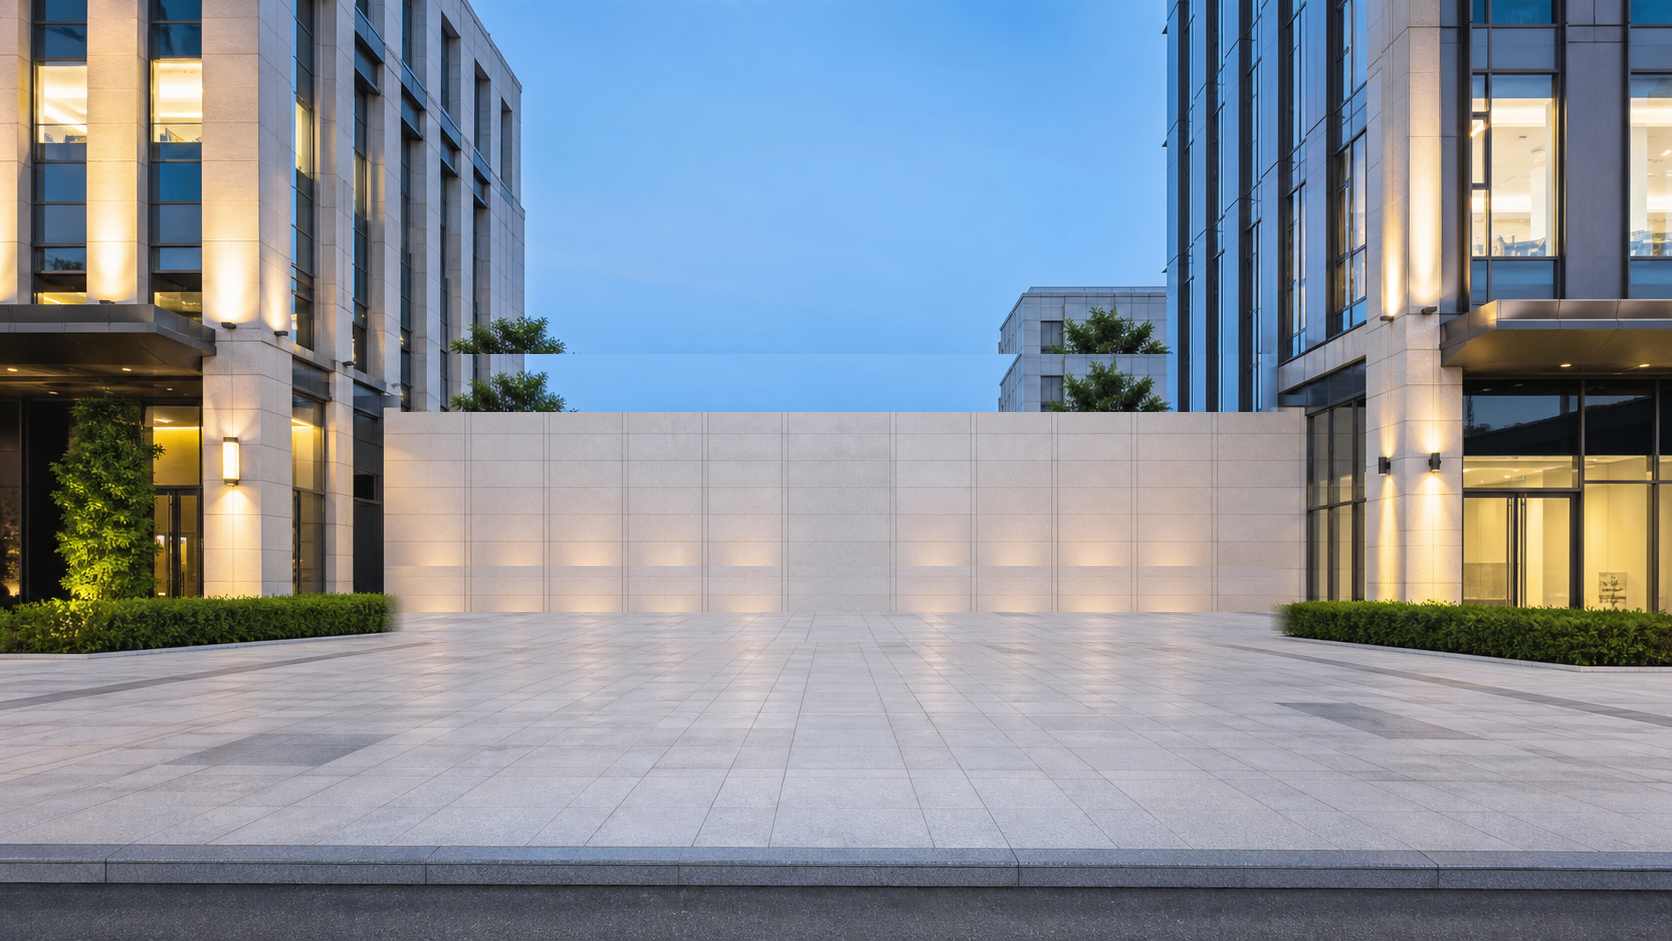
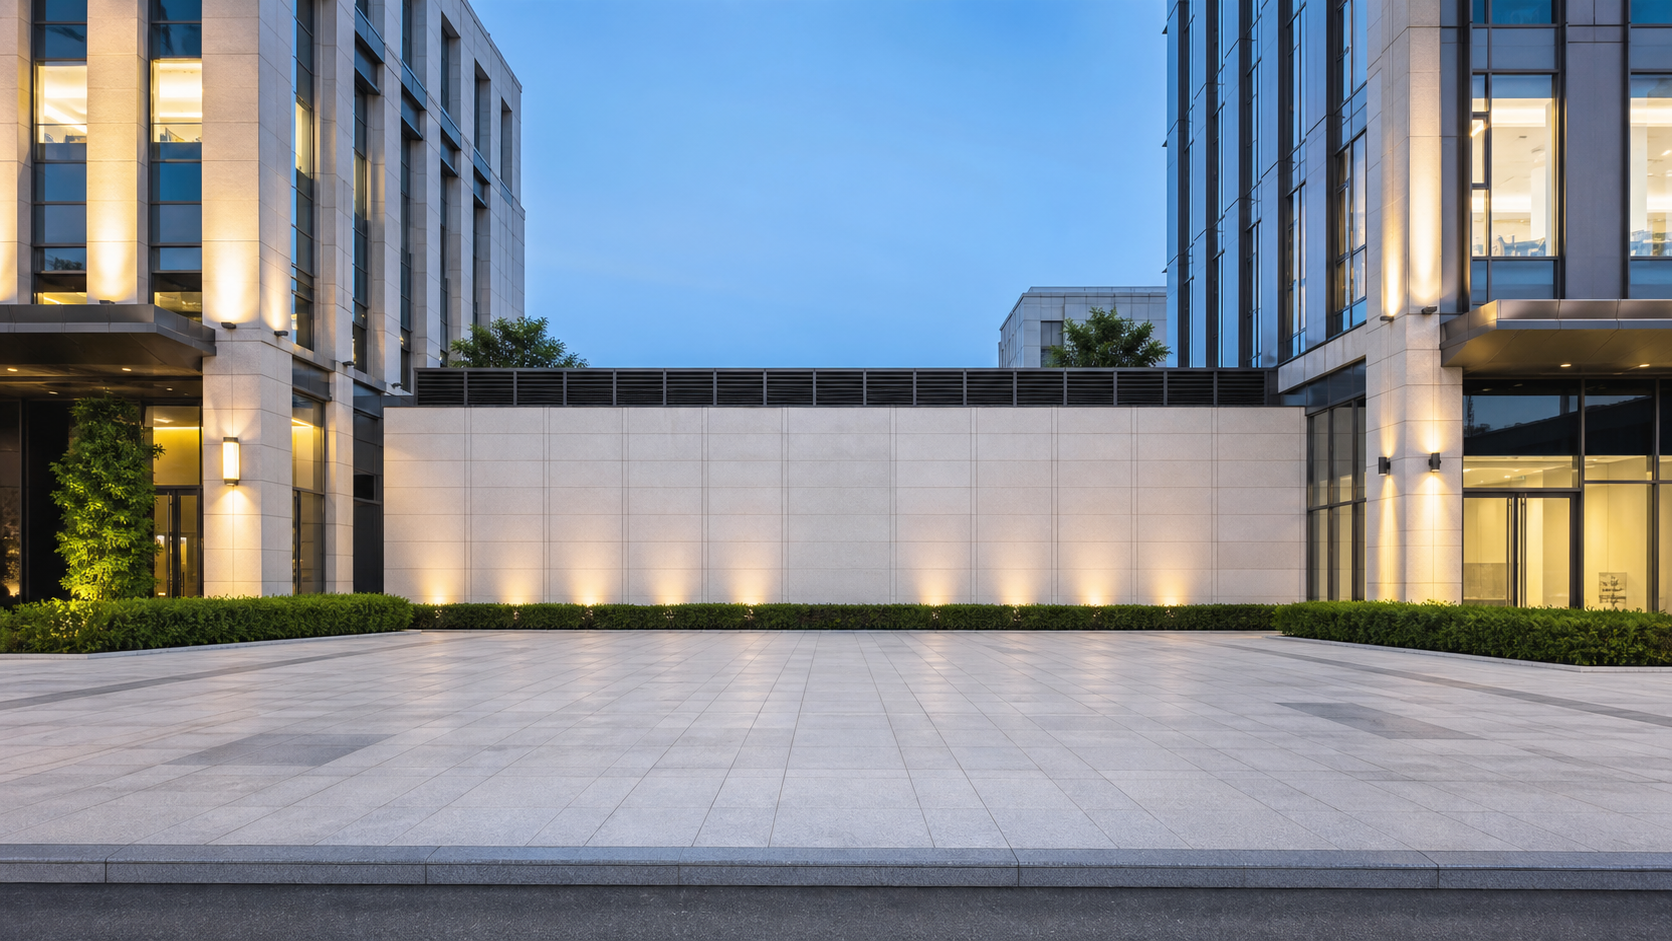
Sehir meydani gorseli orijinaline dondu (izgara bandi ve caliklar geri); duvar dikdortgeni buna gore

Changed region(s): [[0.2177, 0.3698, 0.7775, 0.4623], [0.2177, 0.5855, 0.7775, 0.678]]

diff --git a/frontend/src/sahneler.js b/frontend/src/sahneler.js
@@ -183,7 +183,12 @@ export const SAHNELER = [
      * Taş duvar: 905 piksel geniş, üst kenarı 410 (duvarın üstündeki koyu
      * ızgara bandı görselden kaldırıldı; artık duvarın hemen üstü gökyüzü).
      */
-    duvarKutu: { x0: 384, y0: 410, x1: 1289, y1: 642 },
+    /*
+     * Taş duvar: üst kenarı ızgara bandının altında (410), alt kenarı çalı
+     * şeridinin üstünde (586) — görsel orijinal hâline döndürüldü, ızgara ve
+     * çalılar yerinde.
+     */
+    duvarKutu: { x0: 384, y0: 410, x1: 1289, y1: 586 },
     maskeli: false,
     /*
      * MEKÂNIN GERÇEK ÖLÇÜLERİ (yaklaşık).
